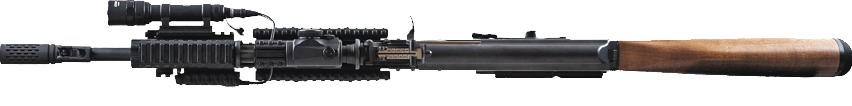
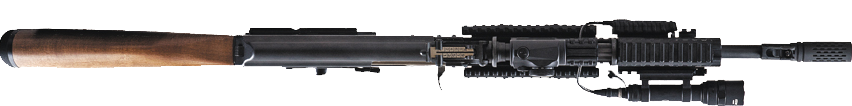
Some Weapons

diff --git a/core/src/com/rastera/hubg/Sprites/Player.java b/core/src/com/rastera/hubg/Sprites/Player.java
@@ -44,7 +44,7 @@ public class Player extends Sprite {
 
         definePlayer(location);
 
-        weapon.setCurrentWeapon("AK47");
+        weapon.setCurrentWeapon("1911");
 
         setBounds(0, 0, 100 / HUBGMain.PPM, 100 / HUBGMain.PPM);
 
@@ -55,7 +55,7 @@ public class Player extends Sprite {
         setOrigin(getWidth() / 2, getHeight() / 2);
         setPosition(b2body.getPosition().x - getWidth() / 2, b2body.getPosition().y - getHeight() / 2);
         setRotation(MathUtils.radiansToDegrees * b2body.getAngle());
-        weapon.update(getX(), getY(), getAngle());
+        weapon.update(b2body.getPosition().x, b2body.getPosition().y, getAngle());
     }
 
     public void definePlayer(float[] location) {
@@ -88,8 +88,8 @@ public class Player extends Sprite {
 
     @Override
     public void draw (Batch batch) {
-        super.draw(batch);
         weapon.draw(batch);
+        super.draw(batch);
     }
 
     public Vector2 getLocation() {

diff --git a/core/src/com/rastera/hubg/Sprites/Weapon.java b/core/src/com/rastera/hubg/Sprites/Weapon.java
@@ -29,10 +29,9 @@ public class Weapon extends Sprite {
 
     public void update(float x, float y, float r) {
 
-        setOrigin(0 ,0);
-
-        setPosition(x - getWidth(), y);
-        setRotation(MathUtils.radiansToDegrees * r + 180);
+        setOrigin(0 ,getHeight() / 2);
+        setPosition(x, y - getHeight() / 2);
+        setRotation(MathUtils.radiansToDegrees * r);
 
     }
 }
